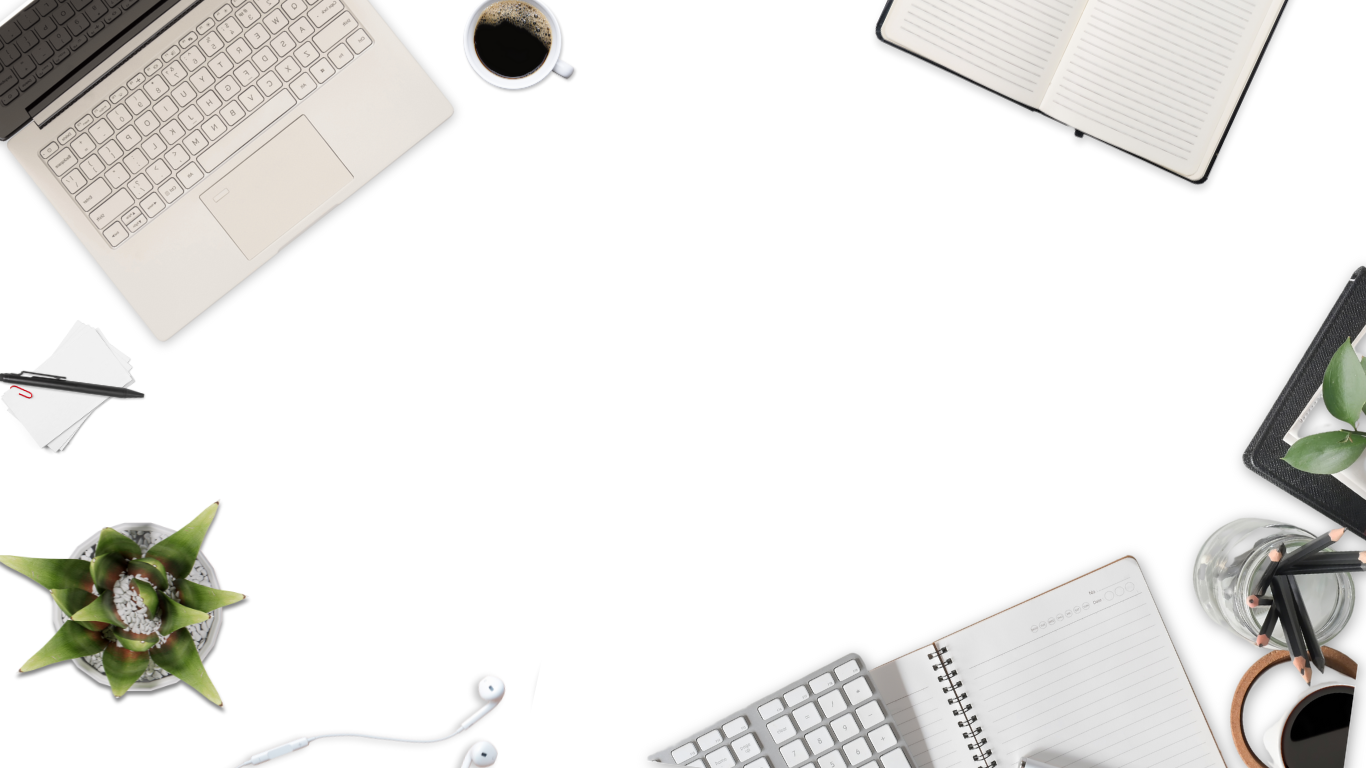
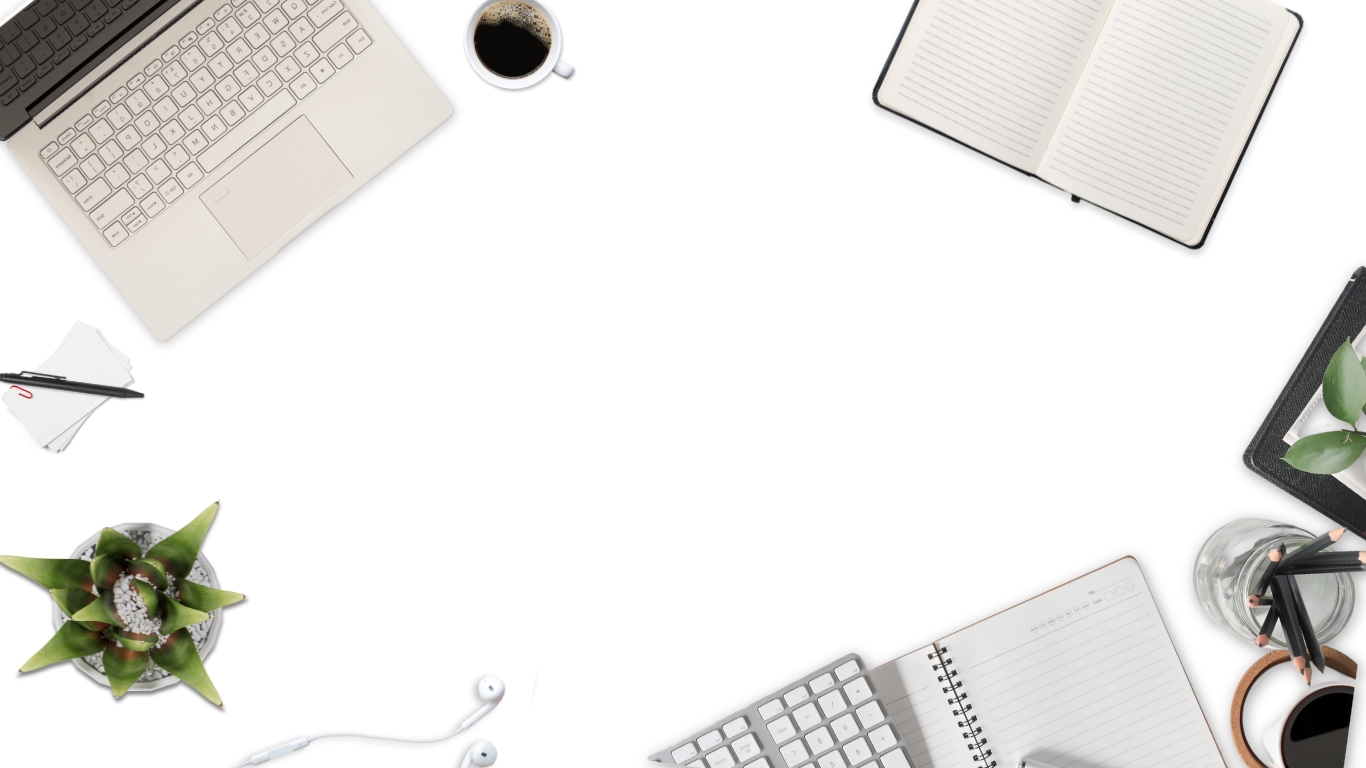
Change pics

Changed region(s): [[0.6149, 0.0, 0.9531, 0.3438]]

diff --git a/styles.css b/styles.css
@@ -192,6 +192,7 @@ section {
   position: absolute;
   top: 0;
   left: 0;
+  right: 0;
   width: 110%;
   height: 100%;
   background: url('assets/Coverpage.png') no-repeat center center/cover;

diff --git a/index.html b/index.html
@@ -110,7 +110,6 @@
                 </div>
             </div>
         </section>
-
         
 
         <section id="about" class="about-section">
